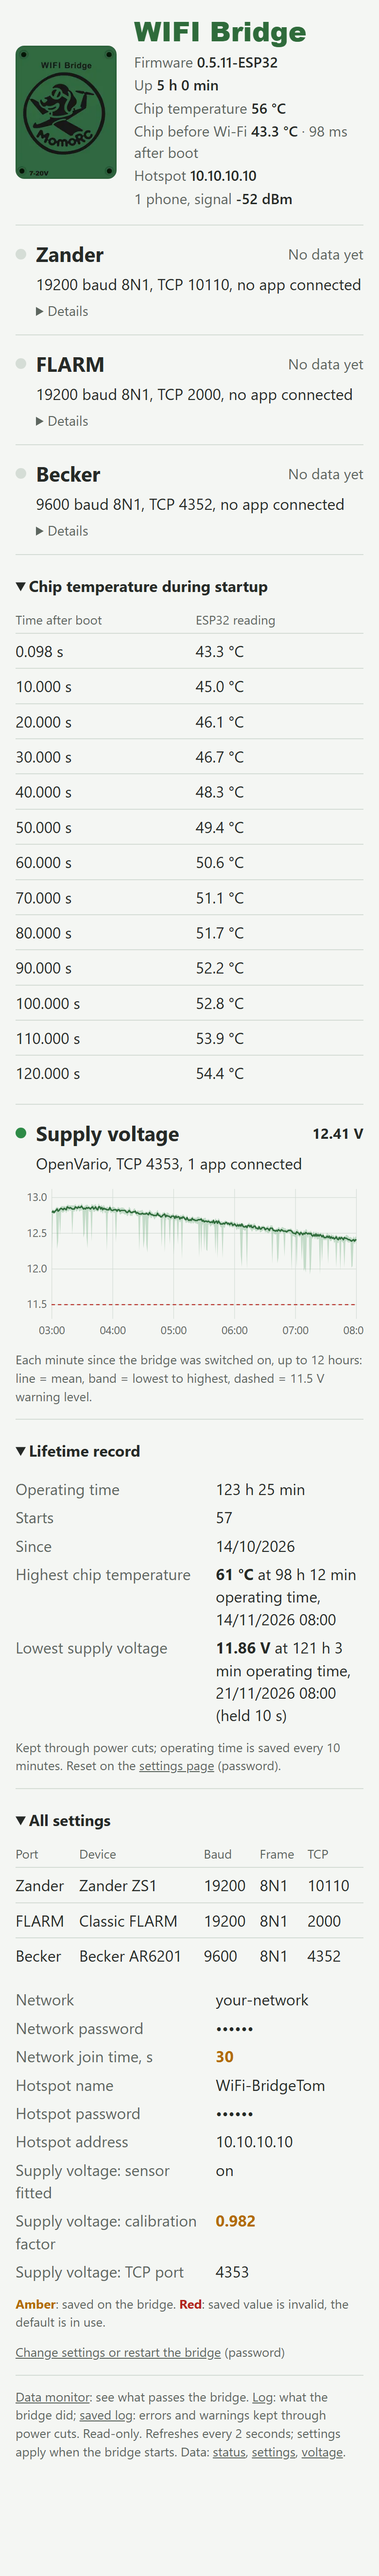
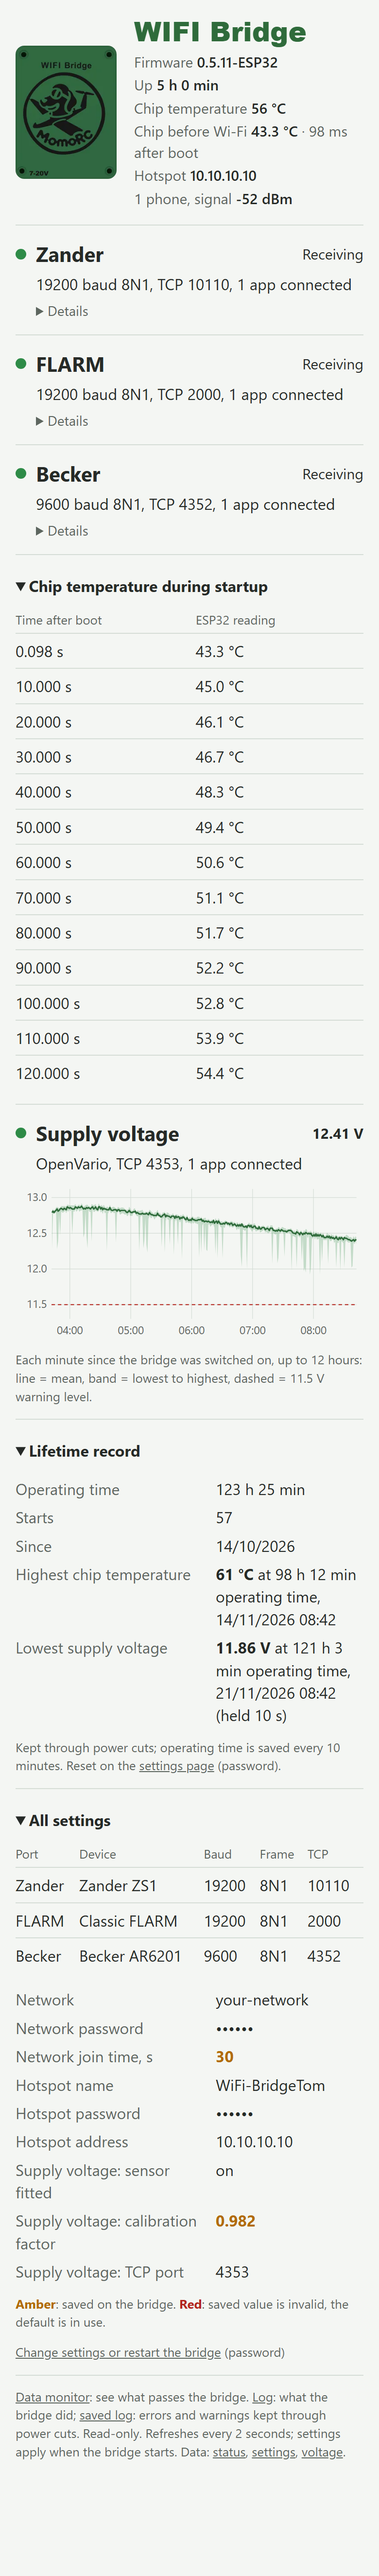
Slim README images and show current housing in teaser
- README: replace three full-length page screenshots with one small
  start-screen picture (status-start.png) of the status page as it opens.
- tools/status_screenshot.py: also write docs/images/status-start.png
  (collapsed status page, one phone screen) and show fixed demo device
  traffic so public images never show live bench state.
- AGENTS.md: list status-start.png with the screenshot command outputs.
- product-teaser.png: enlarged product view now shows the current
  housing (dark hood, green base, male DE-9), composited from a Fusion
  viewport still of the current design; small cockpit box gets a dark
  hood band.

Verified: images viewed, README links checked, git diff --check clean.
Fusion: read-only viewport capture, design not edited or saved.
Documentation and tooling only, no firmware build.

Changed region(s): [[0.7692, 0.0934, 0.9538, 0.1557]]

diff --git a/tools/status_screenshot.py b/tools/status_screenshot.py
@@ -2,11 +2,12 @@
 
 Reads both pages, the image and the settings JSON from a running bridge,
 masks private details, and renders them at phone width (390 px, 2x) in the
-light theme: docs/images/status-page.png (startup temperatures, lifetime record and settings expanded),
+light theme: docs/images/status-start.png (the status page as it opens, for the README),
+docs/images/status-page.png (startup temperatures, lifetime record and settings expanded),
 docs/images/settings-page.png, docs/images/monitor-page.png,
 docs/images/log-page.png and docs/images/saved-page.png. The settings page login uses the OTA password from
 firmware/bridge/credentials.h. The monitor, the log, startup and live chip temperatures, the supply voltage
-(value and chart), the lifetime record and the saved log show fixed demo data, never real data: real NMEA contains
+(value and chart), the device traffic, the lifetime record and the saved log show fixed demo data, never real data: real NMEA contains
 positions, the real log network names and addresses, and a bench board
 without the divider has no meaningful voltage.
 
@@ -187,6 +188,10 @@ def main() -> None:
     status["wifi"] = {"mode": "hotspot", "ip": hotspot, "stations": [-52]}
     status["supply"], history = demo_supply()
     status["uptime_s"] = 5 * 3600 + 25  # matches the five-hour demo chart
+    for port, (rx, tx, ago) in zip(status.get("ports", []), ((1843200, 0, 180), (2211840, 0, 240), (5120, 5120, 900))):
+        # Demo traffic, as in flight: every device sends and OpenSoar is connected; bench values vary from run to run.
+        port.update(bytes_from_device=rx, bytes_to_device=tx, last_data_ms_ago=ago, tcp_clients=1,
+                    uart_errors=0, short_writes=0)
     if "boot_samples" in status.get("chip_temp", {}):
         # Synthetic uncorrected readings for the startup table in public screenshots.
         status["chip_temp"]["boot_samples"] = [
@@ -204,6 +209,7 @@ def main() -> None:
             ";window.fetch=u=>Promise.resolve({json:()=>Promise.resolve(u.includes('settings')?_se:"
             "u.includes('supply')?_su:_st)});</script>")
     page = page.replace("/device.webp", "device.webp").replace("<main>", mock + "<main>", 1)
+    shoot(page, image, IMAGES / "status-start.png", 575)  # as it opens: header and device rows (README)
     page = page.replace('<section class="set"><details>', '<section class="set"><details open>', 1)
     page = page.replace('id="lt" hidden><details>', 'id="lt" hidden><details open>', 1)
     page = page.replace('id="bootTemps" hidden><details>', 'id="bootTemps" hidden><details open>', 1)

diff --git a/README.md b/README.md
@@ -26,9 +26,11 @@ A small ESP32 box in the glider collects data from the cockpit instruments and s
 | 📡 Collision warning: Classic FLARM | Traffic and position |
 | 📻 Radio: Becker AR6201 | The built-in OpenSoar Becker driver reaches the radio over its own port; standby tuning follows once the protocol is confirmed |
 
-Check and set it up from the phone's browser: live status per device, settings, a data monitor and a log.
+<a href="docs/manual/user-manual.md#web-pages"><img src="docs/images/status-start.png" width="220" align="right" alt="Status page on a phone: Zander, FLARM and Becker receiving, one app connected to each"></a>
 
-<a href="docs/manual/user-manual.md#web-pages"><img src="docs/images/status-page.png" width="200" alt="Status page on a phone: Zander, FLARM and Becker rows"></a> <a href="docs/manual/user-manual.md#web-pages"><img src="docs/images/settings-page.png" width="200" alt="Settings page on a phone"></a> <a href="docs/manual/user-manual.md#web-pages"><img src="docs/images/monitor-page.png" width="200" alt="Data monitor on a phone"></a>
+Check and set it up from the phone's browser: live status per device, settings, a data monitor and a log ([web pages](docs/manual/user-manual.md#web-pages)).
+
+<br clear="right">
 
 ---
 

diff --git a/AGENTS.md b/AGENTS.md
@@ -38,7 +38,7 @@ Finish every task with a push to `main` (see Preservation and delivery), so the 
 
 One question or behavior change per increment. Before changing logic, identify the affected requirement, expected outcome and suitable regression check. For broad later packages, choose a bounded subtask rather than implementing the whole plan.
 
-Bridge web pages: after any change to the status, settings or monitor page, run `python tools/status_screenshot.py <bridge address>` against the bridge running that firmware and commit the new `docs/images/status-page.png`, `settings-page.png` and `monitor-page.png` with the change.
+Bridge web pages: after any change to the status, settings or monitor page, run `python tools/status_screenshot.py <bridge address>` against the bridge running that firmware and commit the new `docs/images/status-start.png`, `status-page.png`, `settings-page.png` and `monitor-page.png` with the change.
 
 For documentation-only work, check consistency, relative links/anchors, source support and whitespace; do not build applications or run device tests. State what was not tested. Simulation and static analysis are not physical acceptance.
 
